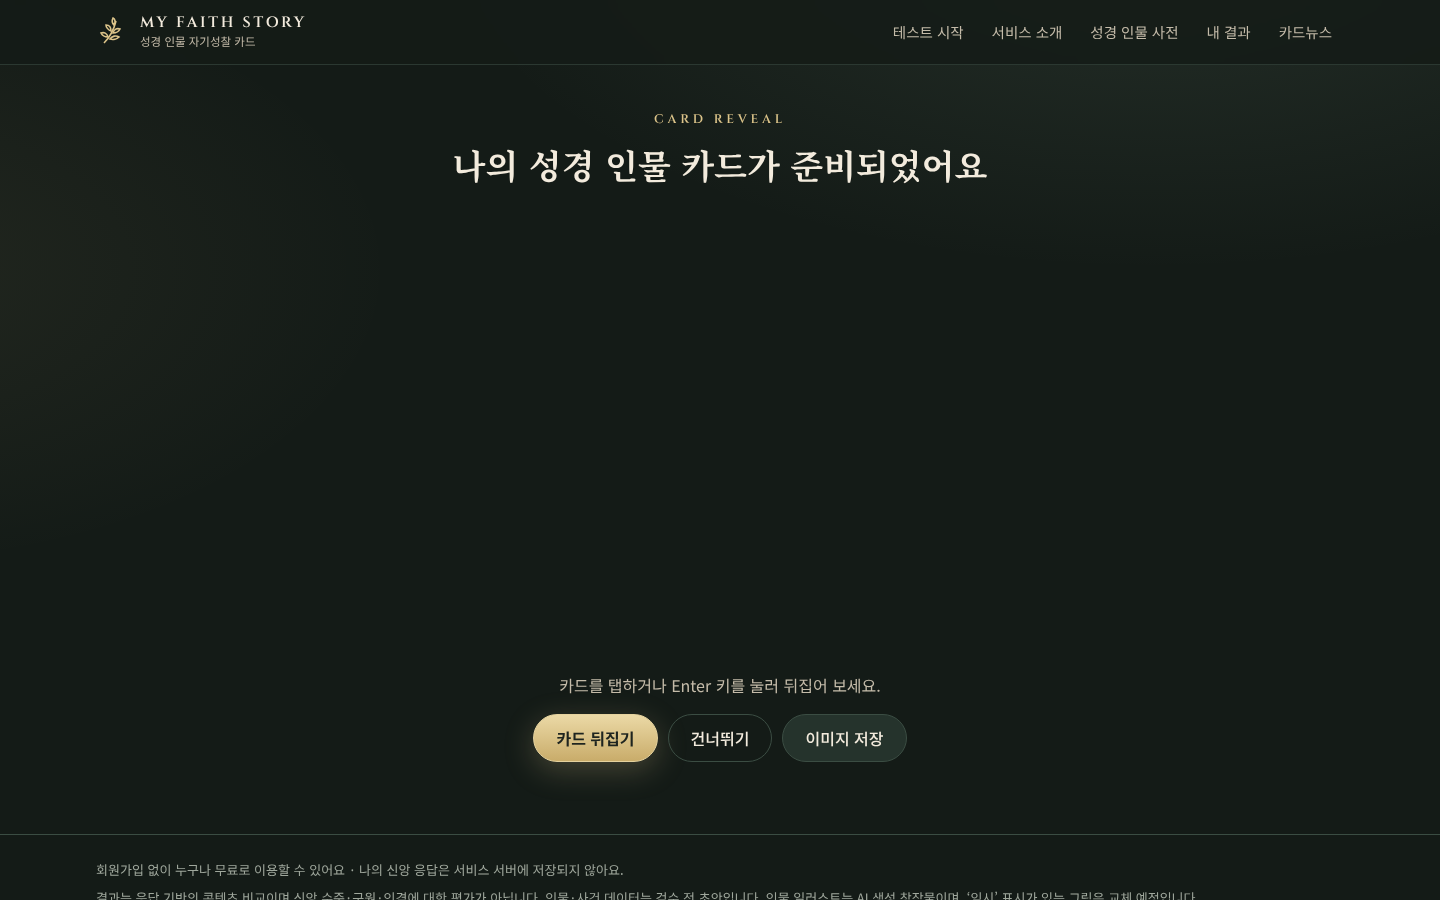
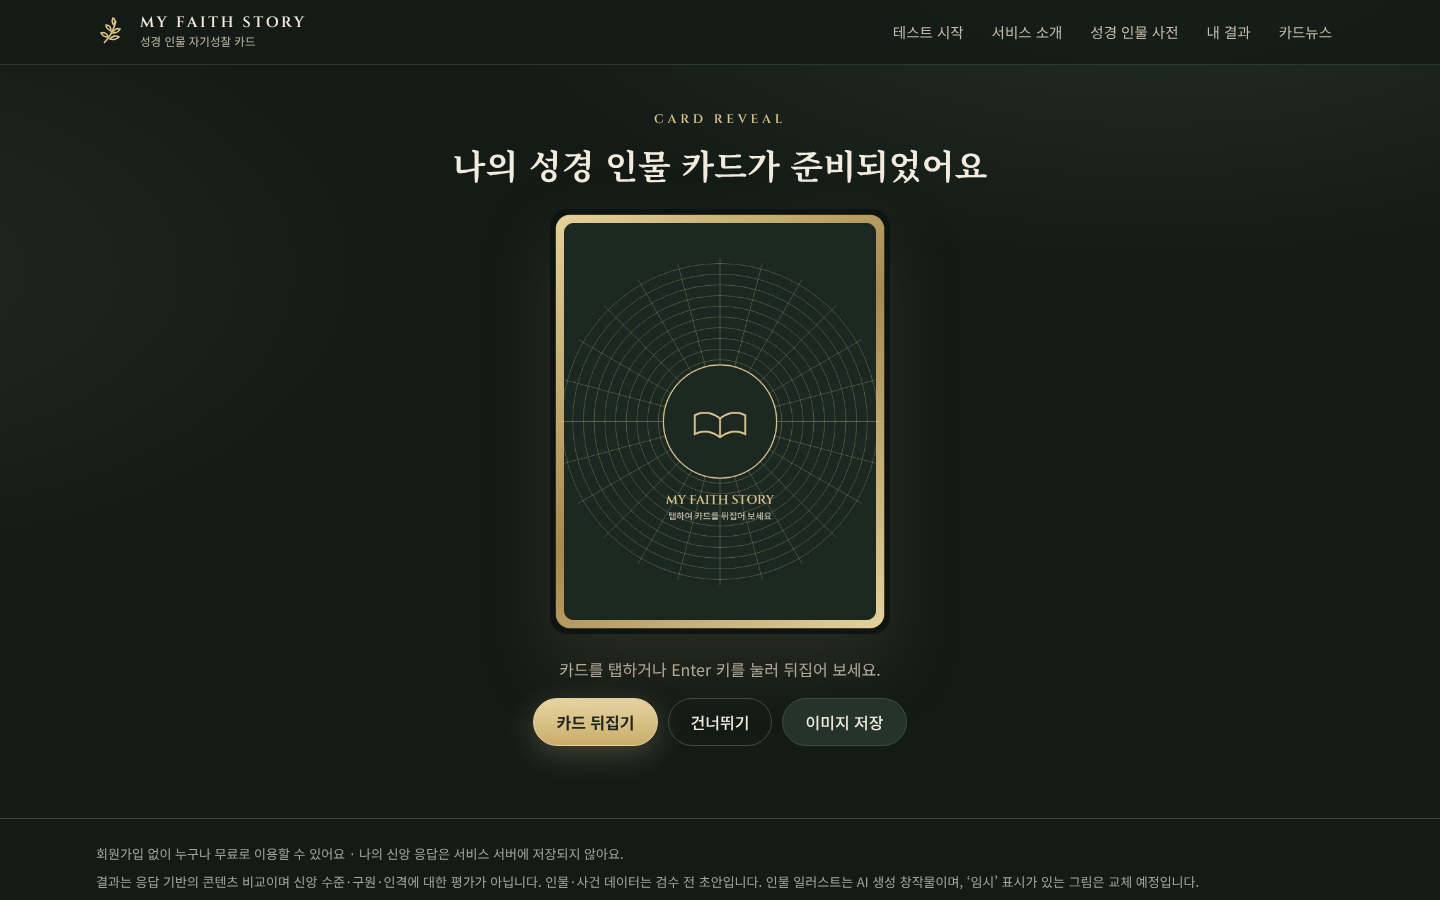
Fix blank card on reveal in Safari: use block-level div for 3D flip
Claude-Session: https://claude.ai/code/session_014c9vFgBS4BdK9e3m5zEueQ

Changed region(s): [[0.375, 0.2178, 0.625, 0.8711], [0.0625, 0.9333, 0.8438, 1.0]]

diff --git a/dist/index.html b/dist/index.html
@@ -122,11 +122,12 @@ h1, h2, h3 { font-family: var(--serif); font-weight: 700; text-wrap: balance; li
 
 /* reveal */
 .reveal { min-height: 72vh; display: grid; place-items: center; text-align: center; padding-block: 32px; }
-.flip { width: min(340px, 82vw); aspect-ratio: 4 / 5; perspective: 1400px; margin: 22px auto; cursor: pointer; border: 0; background: none; padding: 0; }
-.flip .inner { position: relative; width: 100%; height: 100%; transition: transform .9s cubic-bezier(.2,.7,.2,1); transform-style: preserve-3d; }
+.flip { display: block; width: min(340px, 82vw); aspect-ratio: 4 / 5; perspective: 1400px; margin: 22px auto; cursor: pointer; border: 0; background: none; padding: 0; }
+.flip .inner { display: block; position: relative; width: 100%; height: 100%; -webkit-transform-style: preserve-3d; transition: transform .9s cubic-bezier(.2,.7,.2,1); transform-style: preserve-3d; }
 .flip.open .inner { transform: rotateY(180deg); }
-.flip .face { position: absolute; inset: 0; backface-visibility: hidden; border-radius: 18px; overflow: hidden; box-shadow: 0 30px 60px rgba(0,0,0,.45); }
+.flip .face { display: block; position: absolute; inset: 0; -webkit-backface-visibility: hidden; backface-visibility: hidden; border-radius: 18px; overflow: hidden; box-shadow: 0 30px 60px rgba(0,0,0,.45); }
 .flip .face img { width: 100%; height: 100%; display: block; }
+.flip .back { transform: rotateY(0deg); }
 .flip .front { transform: rotateY(180deg); }
 .flip:not(.open) .back { animation: breathe 2.4s ease-in-out infinite; }
 @keyframes breathe { 50% { box-shadow: 0 30px 70px rgba(220,196,138,.28); } }
@@ -1837,9 +1838,9 @@ window.MFS_PORTRAITS=["nt-peter","ot-abraham","ot-asaph","ot-daniel","ot-david",
     $app.innerHTML = `<section class="wrap reveal"><div>
       <p class="eyebrow">Card Reveal</p>
       <h1 style="font-size:clamp(24px,4vw,34px);margin-top:8px">나의 성경 인물 카드가 준비되었어요</h1>
-      <button class="flip ${open ? 'open' : ''}" id="flip" aria-label="${open ? '공개된 카드' : '카드 뒤집기'}">
-        <span class="inner"><span class="face back"><img id="back" alt="카드 뒷면"></span><span class="face front"><img id="front" alt=""></span></span>
-      </button>
+      <div class="flip ${open ? 'open' : ''}" id="flip" role="button" tabindex="0" aria-label="${open ? '공개된 카드' : '카드 뒤집기'}">
+        <div class="inner"><div class="face back"><img id="back" alt="카드 뒷면"></div><div class="face front"><img id="front" alt=""></div></div>
+      </div>
       <p id="revealmsg" aria-live="polite" class="muted">${open ? '' : '카드를 탭하거나 Enter 키를 눌러 뒤집어 보세요.'}</p>
       <div class="row" style="justify-content:center">
         <button class="btn gold" id="flipbtn" ${open ? 'hidden' : ''}>카드 뒤집기</button>
@@ -1860,7 +1861,10 @@ window.MFS_PORTRAITS=["nt-peter","ot-abraham","ot-asaph","ot-daniel","ot-david",
       document.getElementById('flipbtn').hidden = true; document.getElementById('savecard').hidden = false;
       const t = document.getElementById('toresult'); t.textContent = '결과 자세히 보기 ›'; t.className = 'btn gold';
     };
-    document.getElementById('flip').onclick = doFlip; document.getElementById('flipbtn').onclick = doFlip;
+    // A div (not <button>): Safari does not render 3D transforms / backface-visibility inside <button>.
+    const flipEl = document.getElementById('flip');
+    flipEl.onclick = doFlip; document.getElementById('flipbtn').onclick = doFlip;
+    flipEl.addEventListener('keydown', e => { if (e.key === 'Enter' || e.key === ' ') { e.preventDefault(); doFlip(); } });
     document.getElementById('toresult').onclick = () => { S.revealed = true; save(); };
     document.getElementById('savecard').onclick = () => saveCard('feed');
   }

diff --git a/dist/standalone.html b/dist/standalone.html
@@ -124,11 +124,12 @@ h1, h2, h3 { font-family: var(--serif); font-weight: 700; text-wrap: balance; li
 
 /* reveal */
 .reveal { min-height: 72vh; display: grid; place-items: center; text-align: center; padding-block: 32px; }
-.flip { width: min(340px, 82vw); aspect-ratio: 4 / 5; perspective: 1400px; margin: 22px auto; cursor: pointer; border: 0; background: none; padding: 0; }
-.flip .inner { position: relative; width: 100%; height: 100%; transition: transform .9s cubic-bezier(.2,.7,.2,1); transform-style: preserve-3d; }
+.flip { display: block; width: min(340px, 82vw); aspect-ratio: 4 / 5; perspective: 1400px; margin: 22px auto; cursor: pointer; border: 0; background: none; padding: 0; }
+.flip .inner { display: block; position: relative; width: 100%; height: 100%; -webkit-transform-style: preserve-3d; transition: transform .9s cubic-bezier(.2,.7,.2,1); transform-style: preserve-3d; }
 .flip.open .inner { transform: rotateY(180deg); }
-.flip .face { position: absolute; inset: 0; backface-visibility: hidden; border-radius: 18px; overflow: hidden; box-shadow: 0 30px 60px rgba(0,0,0,.45); }
+.flip .face { display: block; position: absolute; inset: 0; -webkit-backface-visibility: hidden; backface-visibility: hidden; border-radius: 18px; overflow: hidden; box-shadow: 0 30px 60px rgba(0,0,0,.45); }
 .flip .face img { width: 100%; height: 100%; display: block; }
+.flip .back { transform: rotateY(0deg); }
 .flip .front { transform: rotateY(180deg); }
 .flip:not(.open) .back { animation: breathe 2.4s ease-in-out infinite; }
 @keyframes breathe { 50% { box-shadow: 0 30px 70px rgba(220,196,138,.28); } }
@@ -1839,9 +1840,9 @@ window.MFS_PORTRAITS=["nt-peter","ot-abraham","ot-asaph","ot-daniel","ot-david",
     $app.innerHTML = `<section class="wrap reveal"><div>
       <p class="eyebrow">Card Reveal</p>
       <h1 style="font-size:clamp(24px,4vw,34px);margin-top:8px">나의 성경 인물 카드가 준비되었어요</h1>
-      <button class="flip ${open ? 'open' : ''}" id="flip" aria-label="${open ? '공개된 카드' : '카드 뒤집기'}">
-        <span class="inner"><span class="face back"><img id="back" alt="카드 뒷면"></span><span class="face front"><img id="front" alt=""></span></span>
-      </button>
+      <div class="flip ${open ? 'open' : ''}" id="flip" role="button" tabindex="0" aria-label="${open ? '공개된 카드' : '카드 뒤집기'}">
+        <div class="inner"><div class="face back"><img id="back" alt="카드 뒷면"></div><div class="face front"><img id="front" alt=""></div></div>
+      </div>
       <p id="revealmsg" aria-live="polite" class="muted">${open ? '' : '카드를 탭하거나 Enter 키를 눌러 뒤집어 보세요.'}</p>
       <div class="row" style="justify-content:center">
         <button class="btn gold" id="flipbtn" ${open ? 'hidden' : ''}>카드 뒤집기</button>
@@ -1862,7 +1863,10 @@ window.MFS_PORTRAITS=["nt-peter","ot-abraham","ot-asaph","ot-daniel","ot-david",
       document.getElementById('flipbtn').hidden = true; document.getElementById('savecard').hidden = false;
       const t = document.getElementById('toresult'); t.textContent = '결과 자세히 보기 ›'; t.className = 'btn gold';
     };
-    document.getElementById('flip').onclick = doFlip; document.getElementById('flipbtn').onclick = doFlip;
+    // A div (not <button>): Safari does not render 3D transforms / backface-visibility inside <button>.
+    const flipEl = document.getElementById('flip');
+    flipEl.onclick = doFlip; document.getElementById('flipbtn').onclick = doFlip;
+    flipEl.addEventListener('keydown', e => { if (e.key === 'Enter' || e.key === ' ') { e.preventDefault(); doFlip(); } });
     document.getElementById('toresult').onclick = () => { S.revealed = true; save(); };
     document.getElementById('savecard').onclick = () => saveCard('feed');
   }

diff --git a/src/app.js b/src/app.js
@@ -328,9 +328,9 @@
     $app.innerHTML = `<section class="wrap reveal"><div>
       <p class="eyebrow">Card Reveal</p>
       <h1 style="font-size:clamp(24px,4vw,34px);margin-top:8px">나의 성경 인물 카드가 준비되었어요</h1>
-      <button class="flip ${open ? 'open' : ''}" id="flip" aria-label="${open ? '공개된 카드' : '카드 뒤집기'}">
-        <span class="inner"><span class="face back"><img id="back" alt="카드 뒷면"></span><span class="face front"><img id="front" alt=""></span></span>
-      </button>
+      <div class="flip ${open ? 'open' : ''}" id="flip" role="button" tabindex="0" aria-label="${open ? '공개된 카드' : '카드 뒤집기'}">
+        <div class="inner"><div class="face back"><img id="back" alt="카드 뒷면"></div><div class="face front"><img id="front" alt=""></div></div>
+      </div>
       <p id="revealmsg" aria-live="polite" class="muted">${open ? '' : '카드를 탭하거나 Enter 키를 눌러 뒤집어 보세요.'}</p>
       <div class="row" style="justify-content:center">
         <button class="btn gold" id="flipbtn" ${open ? 'hidden' : ''}>카드 뒤집기</button>
@@ -351,7 +351,10 @@
       document.getElementById('flipbtn').hidden = true; document.getElementById('savecard').hidden = false;
       const t = document.getElementById('toresult'); t.textContent = '결과 자세히 보기 ›'; t.className = 'btn gold';
     };
-    document.getElementById('flip').onclick = doFlip; document.getElementById('flipbtn').onclick = doFlip;
+    // A div (not <button>): Safari does not render 3D transforms / backface-visibility inside <button>.
+    const flipEl = document.getElementById('flip');
+    flipEl.onclick = doFlip; document.getElementById('flipbtn').onclick = doFlip;
+    flipEl.addEventListener('keydown', e => { if (e.key === 'Enter' || e.key === ' ') { e.preventDefault(); doFlip(); } });
     document.getElementById('toresult').onclick = () => { S.revealed = true; save(); };
     document.getElementById('savecard').onclick = () => saveCard('feed');
   }

diff --git a/src/style.css b/src/style.css
@@ -115,11 +115,12 @@ h1, h2, h3 { font-family: var(--serif); font-weight: 700; text-wrap: balance; li
 
 /* reveal */
 .reveal { min-height: 72vh; display: grid; place-items: center; text-align: center; padding-block: 32px; }
-.flip { width: min(340px, 82vw); aspect-ratio: 4 / 5; perspective: 1400px; margin: 22px auto; cursor: pointer; border: 0; background: none; padding: 0; }
-.flip .inner { position: relative; width: 100%; height: 100%; transition: transform .9s cubic-bezier(.2,.7,.2,1); transform-style: preserve-3d; }
+.flip { display: block; width: min(340px, 82vw); aspect-ratio: 4 / 5; perspective: 1400px; margin: 22px auto; cursor: pointer; border: 0; background: none; padding: 0; }
+.flip .inner { display: block; position: relative; width: 100%; height: 100%; -webkit-transform-style: preserve-3d; transition: transform .9s cubic-bezier(.2,.7,.2,1); transform-style: preserve-3d; }
 .flip.open .inner { transform: rotateY(180deg); }
-.flip .face { position: absolute; inset: 0; backface-visibility: hidden; border-radius: 18px; overflow: hidden; box-shadow: 0 30px 60px rgba(0,0,0,.45); }
+.flip .face { display: block; position: absolute; inset: 0; -webkit-backface-visibility: hidden; backface-visibility: hidden; border-radius: 18px; overflow: hidden; box-shadow: 0 30px 60px rgba(0,0,0,.45); }
 .flip .face img { width: 100%; height: 100%; display: block; }
+.flip .back { transform: rotateY(0deg); }
 .flip .front { transform: rotateY(180deg); }
 .flip:not(.open) .back { animation: breathe 2.4s ease-in-out infinite; }
 @keyframes breathe { 50% { box-shadow: 0 30px 70px rgba(220,196,138,.28); } }
